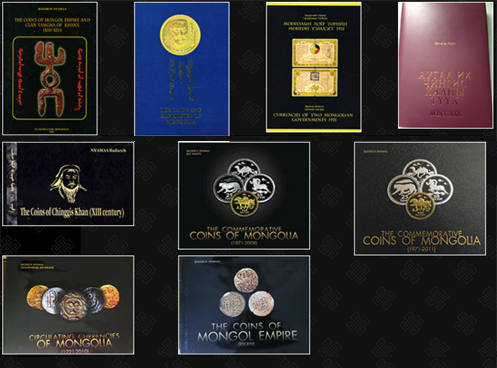
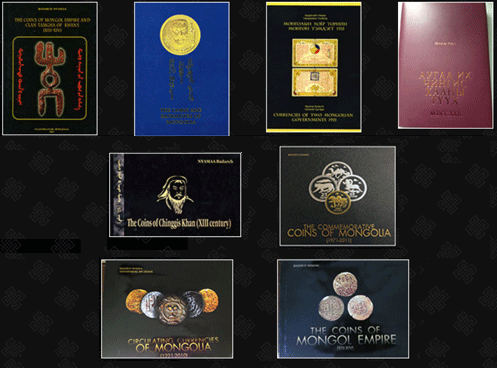
book

Changed region(s): [[0.0, 0.3587, 0.996, 0.9864]]

diff --git a/commemorative_coins.html b/commemorative_coins.html
@@ -1339,11 +1339,6 @@
         Mongolia.500 tugriks. 1.2.44g, 999.9 Gold, .4000oz.</td>
     </tr>
     <tr background="images/bg_table.jpg">
-        <td align="center" valign="top" background="images/bg_table.jpg"><a href="images/Commemorative/2003_Goat_gold.jpg"><img src="images/Commemorative/thumb/2003_Goat_gold.gif" border="0" /></a></td>
-        <td valign="top" background="images/bg_table.jpg">2003.Year of the Goat.<br>
-        Mongolia. 2000 tugriks. 8g, 999.9 Gold, from collection of Mongol Bank.</td>
-    </tr>
-    <tr background="images/bg_table.jpg">
       <td align="center" valign="top" background="images/bg_table.jpg"><a href="images/Commemorative/2003.S-571x.jpg"><img src="images/Commemorative/thumb/2003.S-571x.gif" border="0" width="130" height="65" /></a></td>
       <td valign="top" background="images/bg_table.jpg">2003. 500 tugriks, 25.0000g, 925 Silver, .7435oz. Khubilai Khan - Marco Polo.<br />
         001HLV0800</td>
@@ -1402,6 +1397,11 @@
       <td valign="top" background="images/bg_table.jpg">2003.  500 tugriks,  1.2241g,  999 Gold  0400oz.<br />
         Year of the Sheep.<br />
         001GLH0440</td>
+    </tr>
+    <tr background="images/bg_table.jpg">
+      <td align="center" valign="top" background="images/bg_table.jpg"><a href="images/Commemorative/2003_Goat_gold.jpg"><img src="images/Commemorative/thumb/2003_Goat_gold.gif" border="0" /></a></td>
+      <td valign="top" background="images/bg_table.jpg">2003.Year of the Goat.<br>
+        Mongolia. 2000 tugriks. 8g, 999.9 Gold, from collection of Mongol Bank.</td>
     </tr>
     <tr background="images/bg_table.jpg">
         <td align="center" valign="top" background="images/bg_table.jpg"><a href="images/Commemorative/2003_sheep_gold.jpg"><img src="images/Commemorative/thumb/2003_sheep_gold.gif" border="0" /></a></td>
@@ -1524,11 +1524,6 @@
         <td valign="top" background="images/bg_table.jpg">2004. Year of the Monkey.<br>
         Mongolia.3000 tugriks. platinum 999. 1/4oz.</td>
       </tr>
-      <tr background="images/bg_table.jpg">
-        <td align="center" valign="top" background="images/bg_table.jpg"><a href="images/Commemorative/2004_torino.jpg"><img src="images/Commemorative/thumb/2004_torino.gif" border="0" /></a></td>
-        <td valign="top" background="images/bg_table.jpg">2004. Torino Olympic Games.<br>
-        Mongolia. 500 tugris. 20g. silver 925. .5788oz.</td>
-      </tr>
     <tr background="images/bg_table.jpg">
       <td align="center" valign="top" background="images/bg_table.jpg"><a href="images/Commemorative/2004.S-709x.jpg"><img src="images/Commemorative/thumb/2004.S-709x.gif" border="0" width="130" height="65" /></a></td>
       <td valign="top" background="images/bg_table.jpg">2004. 500 tugriks,  31.1035g, 999 Silver, 1.0000oz. Year of the Monkey (gold plated).<br />
@@ -1605,6 +1600,11 @@
       <td align="center" valign="top" background="images/bg_table.jpg"><a href="images/Commemorative/2004.S-916x.jpg"><img src="images/Commemorative/thumb/2004.S-916x.gif" border="0" width="130" height="65" /></a></td>
       <td valign="top" background="images/bg_table.jpg">2004. 500 tugriks.20.0000g, 925 Silver, 5788oz. Olympic Games of Grenouble 1968.<br />
         001HLV0921</td>
+    </tr>
+    <tr background="images/bg_table.jpg">
+      <td align="center" valign="top" background="images/bg_table.jpg"><a href="images/Commemorative/2004_torino.jpg"><img src="images/Commemorative/thumb/2004_torino.gif" border="0" /></a></td>
+      <td valign="top" background="images/bg_table.jpg">2004. Torino Olympic Games.<br>
+        Mongolia. 500 tugris. 20g. silver 925. .5788oz.</td>
     </tr>
     <tbody>
     <tr background="images/bg_table.jpg">

diff --git a/books.html b/books.html
@@ -88,8 +88,8 @@
 
 <div class="row">
   <div class="col-sm-4"><a href="#e"><img src="images/book_cover3_small.jpg" width="180" height="115"></a></div>
-  <div class="col-sm-4"><a href="#f"><img src="images/book_cover5_small.jpg" width="180" height="147"></a></div>
-  <div class="col-sm-4"><a href="#f"><img src="images/book_cover9_small.jpg" width="180" height="155"></a></div>
+  <div class="col-sm-4"><a href="#f"><img src="images/book_cover9_small.jpg" width="180" height="147"></a></div>
+  <div class="col-sm-4"></div>
   
 </div><br>
 <div class="row">
@@ -332,18 +332,8 @@
     <tr>
       <td><table width="100%" border="0" cellspacing="10">
         <tr>
-          <td><img src="images/book_cover5_large.jpg"  /></td>
-          </tr>
-        <tr>
-          <td><p>Authors:  Badarch  Nyamaa,  Bat Khurts.<br />
-            165 pages, 426 colored pictures of commemorative coins of  Mongolia 1971-2008, historical pictures of Mongolian history. <br />
-            Ulaanbaatar. Mongolia 2009<br />
-            Hard cover with jacket.<br />
-            In Mongolian and English.</p></td>
-          </tr>
-        <tr>
           <td><img src="images/book_cover9_large.jpg"  /></td>
-          </tr>
+        </tr>
         <tr>
           <td><p>Authors:  Badarch  Nyamaa.<br />
             234 pages, ~500 colored pictures of commemorative coins of  Mongolia 1971-2008, historical pictures of Mongolian history. <br />
